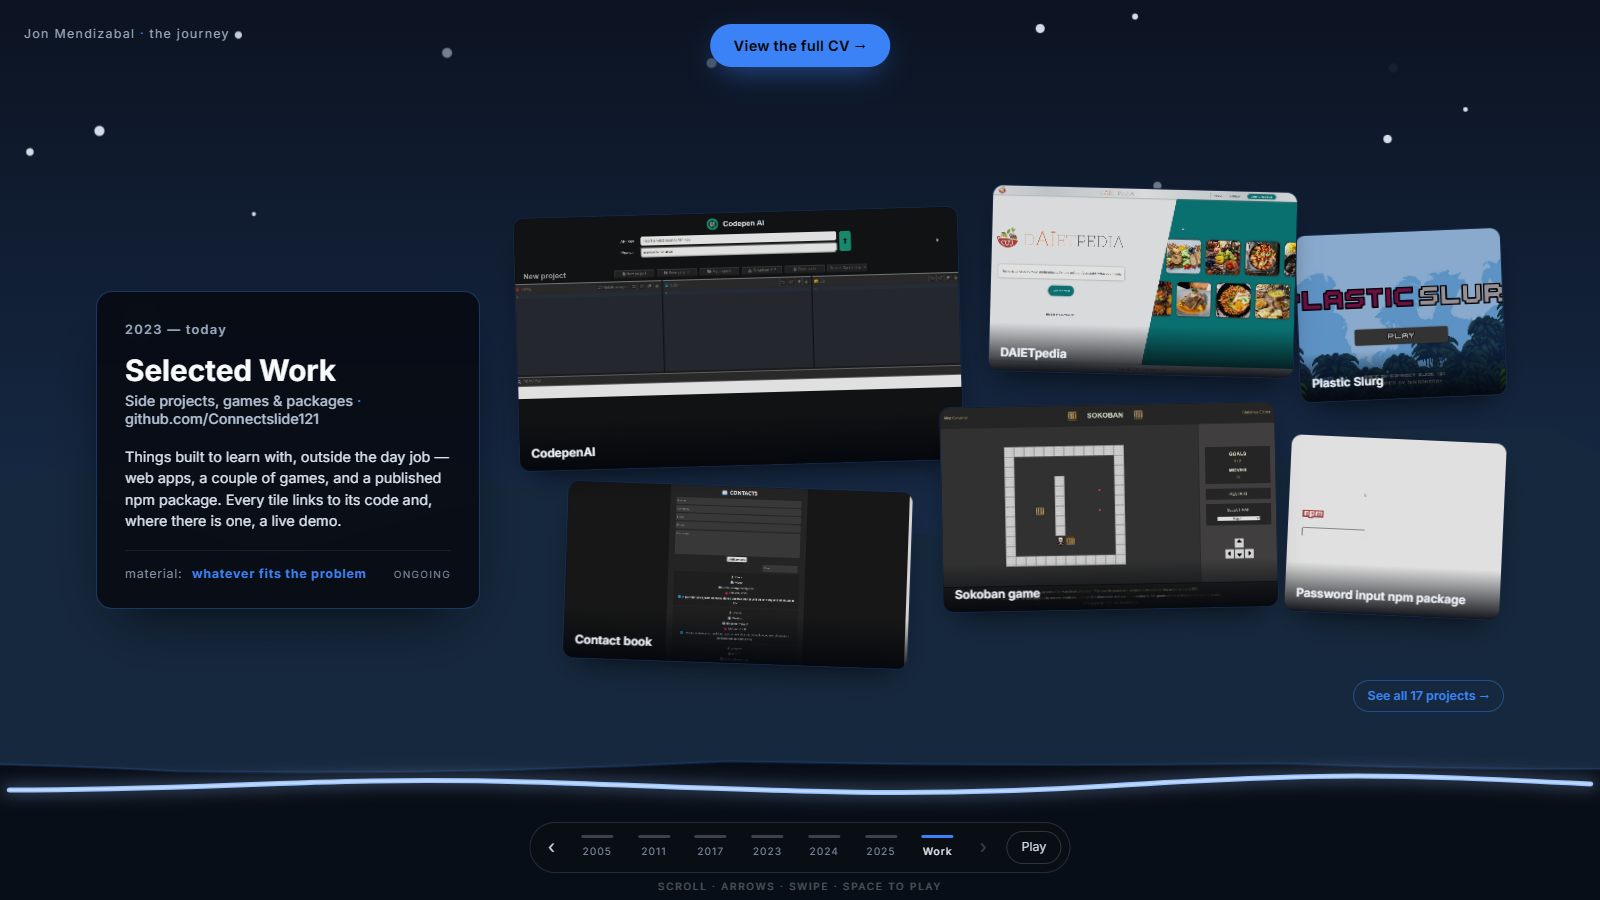
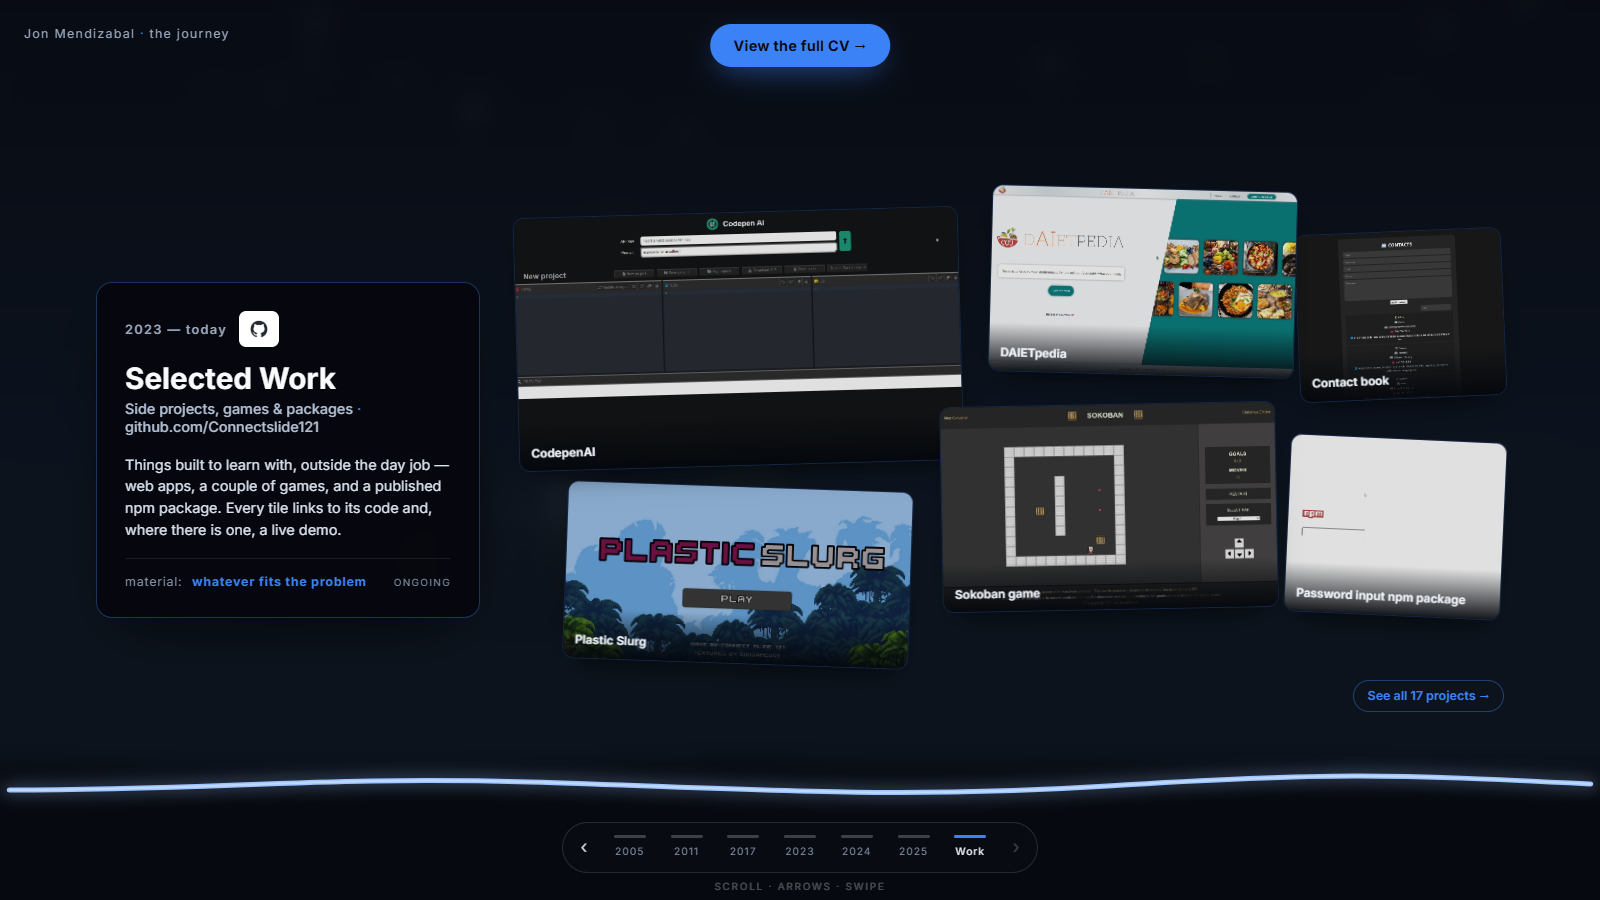
fix(journey): soft-mask the receding past, scrim the work slide, fit tall windows
Three problems with the receding effect as first shipped.

The hard clipPath read as the silhouettes being sliced in half rather than
receding — only the middle survived and the cut edges were obvious. It is a
feathered MASK now, so the rest of each scene fades off into haze. The slice
is also wider (640 units).

The past was not going far enough left. VANISH moves from x=330 to x=120, so
the line of earlier places trails properly off to the left: the beat you just
left sits in the corridor, the one before half-peeks past the card, older
ones ghost through it.

The closing beat had the stack diagram and the receding stack showing through
behind the project tiles, which read as clutter. That slot now carries its own
scrim — a dark wash plus backdrop blur — so the world drops back and the
tiles are the only thing in focus. The rail and topbar are later siblings, so
they stay crisp.

Separately, the active scene was running off the right edge. The cause was
not its position but the viewport shape: preserveAspectRatio="slice" crops the
SIDES hard on a tall window — 1704x1290 shows only viewBox x 186..1613, not
the full 0..1800. The current scene is now placed and sized against that
narrow band (CURRENT_ANCHOR 1420 -> 1150, CURRENT_SCALE 0.82 -> 0.76), and
the architect pull-back eases from 0.7 to 0.86 since the scene is already
smaller. Verified at 1704x1290: nothing clipped.

Also swaps Contact book and Plastic Slurg in the gallery, so the game gets the
larger tile.

diff --git a/src/journey/World.jsx b/src/journey/World.jsx
@@ -39,20 +39,35 @@ export default function World() {
     >
       <JourneyDefs />
 
-      {/* One clip per beat, used only while that beat is receding. */}
+      {/* One soft mask per beat, applied only while that beat is receding.
+          Feathered at both edges so the rest of the scene reads as fading
+          into haze rather than being sliced off. */}
       <defs>
-        {BEATS.map((beat, i) =>
-          LANDMARK_X[beat.id] === undefined ? null : (
-            <clipPath key={beat.id} id={`jlm-${i}`} clipPathUnits="userSpaceOnUse">
-              <rect
-                x={FOCAL + LANDMARK_X[beat.id] - LANDMARK_W / 2}
-                y="120"
-                width={LANDMARK_W}
-                height="820"
-              />
-            </clipPath>
-          )
-        )}
+        {BEATS.map((beat, i) => {
+          const lx = LANDMARK_X[beat.id];
+          if (lx === undefined) return null;
+          const x0 = FOCAL + lx - LANDMARK_W / 2;
+          return (
+            <React.Fragment key={beat.id}>
+              <linearGradient
+                id={`jlmg-${i}`}
+                gradientUnits="userSpaceOnUse"
+                x1={x0}
+                y1="0"
+                x2={x0 + LANDMARK_W}
+                y2="0"
+              >
+                <stop offset="0%" stopColor="#000" />
+                <stop offset="22%" stopColor="#fff" />
+                <stop offset="78%" stopColor="#fff" />
+                <stop offset="100%" stopColor="#000" />
+              </linearGradient>
+              <mask id={`jlm-${i}`} maskUnits="userSpaceOnUse" x={x0} y="0" width={LANDMARK_W} height={VIEW_H}>
+                <rect x={x0} y="0" width={LANDMARK_W} height={VIEW_H} fill={`url(#jlmg-${i})`} />
+              </mask>
+            </React.Fragment>
+          );
+        })}
       </defs>
       <Sky />
 

diff --git a/src/journey/timeline.js b/src/journey/timeline.js
@@ -41,7 +41,7 @@ export function buildJourney({ root }) {
   }));
 
   const sceneEls = BEATS.map((_, i) => root.querySelector(`[data-scene="${i}"]`));
-  const clips = BEATS.map((_, i) => root.querySelector(`#jlm-${i}`));
+  const masks = BEATS.map((_, i) => root.querySelector(`#jlm-${i}`));
 
   /**
    * Places every scene from the camera position.
@@ -96,14 +96,14 @@ export function buildJourney({ root }) {
       );
       el.setAttribute("opacity", opacity.toFixed(3));
 
-      // Clip to the beat's landmark once it starts receding, and only then —
+      // Narrow to the beat's landmark once it starts receding, and only then —
       // the current scene must always be whole.
-      const wantClip = past && t > 0.3 && clips[i];
-      const current = el.getAttribute("clip-path");
-      const next = wantClip ? `url(#jlm-${i})` : "";
-      if (current !== next) {
-        if (next) el.setAttribute("clip-path", next);
-        else el.removeAttribute("clip-path");
+      const wantMask = past && t > 0.25 && masks[i];
+      const applied = el.getAttribute("mask");
+      const next = wantMask ? `url(#jlm-${i})` : "";
+      if (applied !== next) {
+        if (next) el.setAttribute("mask", next);
+        else el.removeAttribute("mask");
       }
     }
   };
@@ -169,7 +169,7 @@ export function buildJourney({ root }) {
     if (isArchitect && !narrow) {
       // The payoff: the camera pulls back and the stream stops being a line —
       // it branches into the system that actually shipped.
-      tl.to(cameraGroup, { scale: 0.7, duration: 2.2 }, "<0.6")
+      tl.to(cameraGroup, { scale: 0.86, duration: 2.2 }, "<0.6")
         .to(archEdges, { drawSVG: "0% 100%", duration: 1.1, stagger: 0.03 }, "<0.7")
         .to(
           archNodes,

diff --git a/src/journey/config.js b/src/journey/config.js
@@ -56,10 +56,15 @@ export const FLOOR = 1600;
 //
 // A scene's ground-contact point (SCENE_ANCHOR) is what travels toward VANISH,
 // so a receding scene keeps sitting ON the ground rather than floating.
+//
+// CURRENT_ANCHOR/CURRENT_SCALE are also what keep the active scene inside the
+// frame. preserveAspectRatio="slice" crops the SIDES hard on a tall window —
+// a 1704x1290 viewport only shows viewBox x 186..1613, not the full 0..1800 —
+// so the scene is placed and sized to survive that band, not the 16:9 one.
 export const SCENE_ANCHOR = { x: FOCAL + SCENE_SPAN / 2, y: BASE };
-export const CURRENT_ANCHOR = { x: 1420, y: BASE };
-export const CURRENT_SCALE = 0.82;
-export const VANISH = { x: 330, y: 690 };
+export const CURRENT_ANCHOR = { x: 1150, y: BASE };
+export const CURRENT_SCALE = 0.76;
+export const VANISH = { x: 120, y: 686 };
 export const DEPTH = 0.85; // how fast the past shrinks — bigger recedes faster
 export const PAST_MIN_OPACITY = 0.2;
 

diff --git a/src/journey/scenes.jsx b/src/journey/scenes.jsx
@@ -314,9 +314,12 @@ export function StackGraph({ ax, oy = 70, groups }) {
 
 /**
  * The one shape that identifies each place, as a local-x centre. A receding
- * scene is clipped to a narrow slice around this point: a full 1080-wide
+ * scene is narrowed to a slice around this point: a full 1080-wide
  * composition shrunk into the distance still sprawls across the current
  * scene and disappears behind it, whereas a single landmark reads clearly.
+ *
+ * The slice is a soft MASK, not a clip. A hard edge looked like the scene had
+ * been cut in half; a gradient reads as the rest of it fading off into haze.
  */
 export const LANDMARK_X = {
   origin: 700, // the stair tower
@@ -326,7 +329,7 @@ export const LANDMARK_X = {
   sprinta: 880, // the tallest block
 };
 
-export const LANDMARK_W = 460;
+export const LANDMARK_W = 640;
 
 /** Keyed by beat id, so adding or reordering beats cannot shift the mapping. */
 export const SCENE_BY_BEAT = {

diff --git a/src/styles/journey.css b/src/styles/journey.css
@@ -53,6 +53,12 @@
 .j-card-slot[data-kind="projects"] {
   justify-content: flex-start;
   gap: clamp(1rem, 2.5vw, 2.25rem);
+  /* The closing beat is a reading surface, not a scene. Scrim the world back
+     so the receding stack and the stack diagram stop competing with the
+     project tiles. The slot spans the stage, so this blurs everything behind
+     it while the rail and topbar — later siblings — stay crisp. */
+  background: color-mix(in srgb, #05070c 62%, transparent);
+  backdrop-filter: blur(14px) saturate(0.85);
 }
 
 .j-card-slot[data-kind="projects"] .j-card {

diff --git a/src/data/journey.js b/src/data/journey.js
@@ -341,8 +341,8 @@ export const beats = [
 export const galleryProjects = [
   "CodepenAI",
   "DAIETpedia",
-  "Plastic Slurg",
   "Contact book",
+  "Plastic Slurg",
   "Sokoban game",
   "Password input npm package",
 ];
